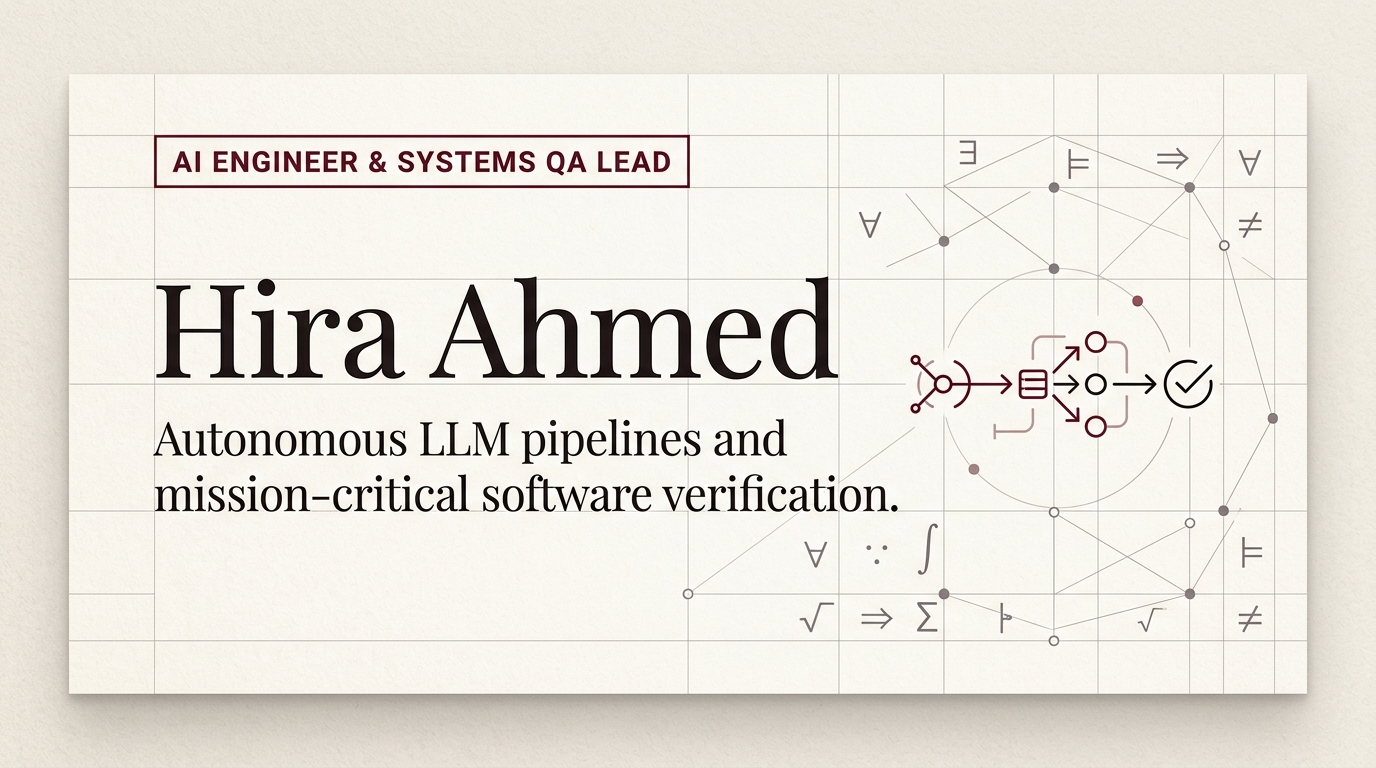
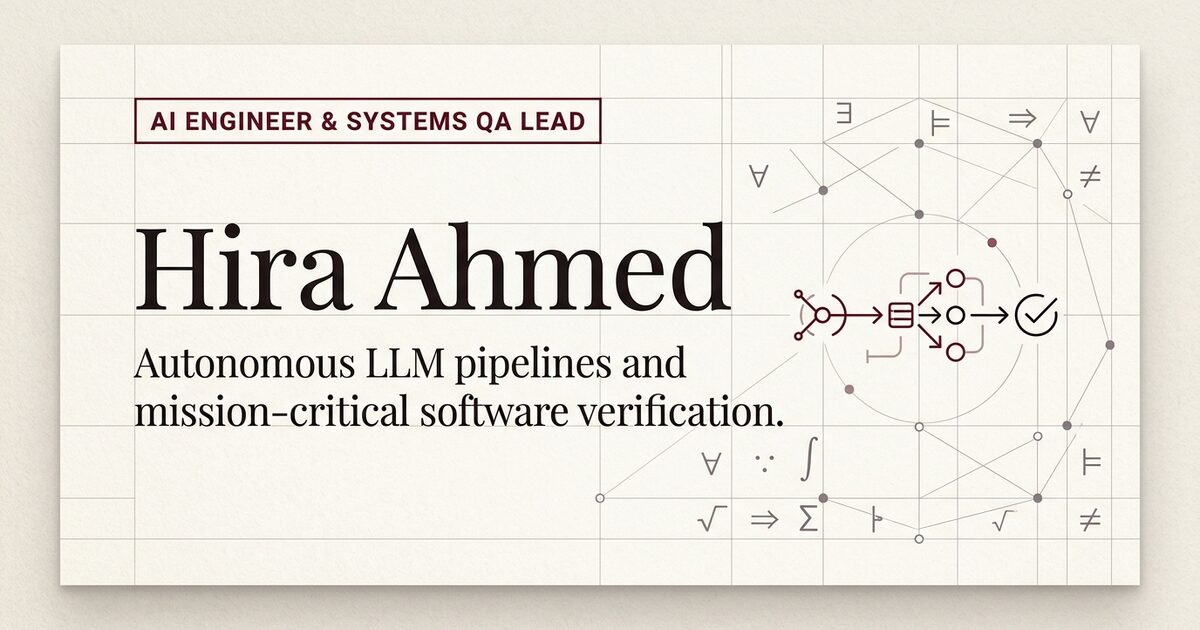
chore: update canonical URL to hiraahmed.me
Update the canonical link and Open Graph metadata to reflect the new domain.

diff --git a/index.html b/index.html
@@ -5,16 +5,16 @@
     <meta name="viewport" content="width=device-width, initial-scale=1.0" />
     <title>Hira Ahmed | AI Engineer &amp; Systems QA Lead</title>
     <meta name="description" content="Autonomous LLM pipelines and mission-critical software verification. Designing status-gated data workflows and lead QA architectures that don't break in production." />
-    <link rel="canonical" href="https://hira299.github.io/" />
+    <link rel="canonical" href="https://hiraahmed.me/" />
     <meta name="google-site-verification" content="Z4xJX7RA3oM5bbA2DggDSL5-N3CYvATEaJkeoqx8GwI" />
     <meta name="msvalidate.01" content="F2DFF3C308614D7861ADC346C9F71C0B" />
     <meta property="og:title" content="Hira Ahmed | AI Engineer &amp; Systems QA Lead" />
     <meta property="og:description" content="Autonomous LLM pipelines and mission-critical software verification. Designing status-gated data workflows and lead QA architectures that don't break in production." />
     <meta property="og:type" content="website" />
-    <meta property="og:url" content="https://hira299.github.io/" />
+    <meta property="og:url" content="https://hiraahmed.me/" />
     <meta property="og:site_name" content="Hira Ahmed" />
-    <meta property="og:image" content="https://hira299.github.io/og-image.png?v=2" />
-    <meta property="og:image:secure_url" content="https://hira299.github.io/og-image.png?v=2" />
+    <meta property="og:image" content="https://hiraahmed.me/og-image.png?v=3" />
+    <meta property="og:image:secure_url" content="https://hiraahmed.me/og-image.png?v=3" />
     <meta property="og:image:width" content="1200" />
     <meta property="og:image:height" content="630" />
     <meta property="og:image:type" content="image/png" />
@@ -22,7 +22,7 @@
     <meta name="twitter:card" content="summary_large_image" />
     <meta name="twitter:title" content="Hira Ahmed | AI Engineer &amp; Systems QA Lead" />
     <meta name="twitter:description" content="Autonomous LLM pipelines and mission-critical software verification. Designing status-gated data workflows and lead QA architectures that don't break in production." />
-    <meta name="twitter:image" content="https://hira299.github.io/og-image.png?v=2" />
+    <meta name="twitter:image" content="https://hiraahmed.me/og-image.png?v=3" />
     <link rel="icon" type="image/svg+xml" href="/icon.svg?v=2" />
     <link rel="alternate icon" href="/favicon.ico?v=2" />
     <link rel="apple-touch-icon" href="/apple-touch-icon.png?v=2" />
